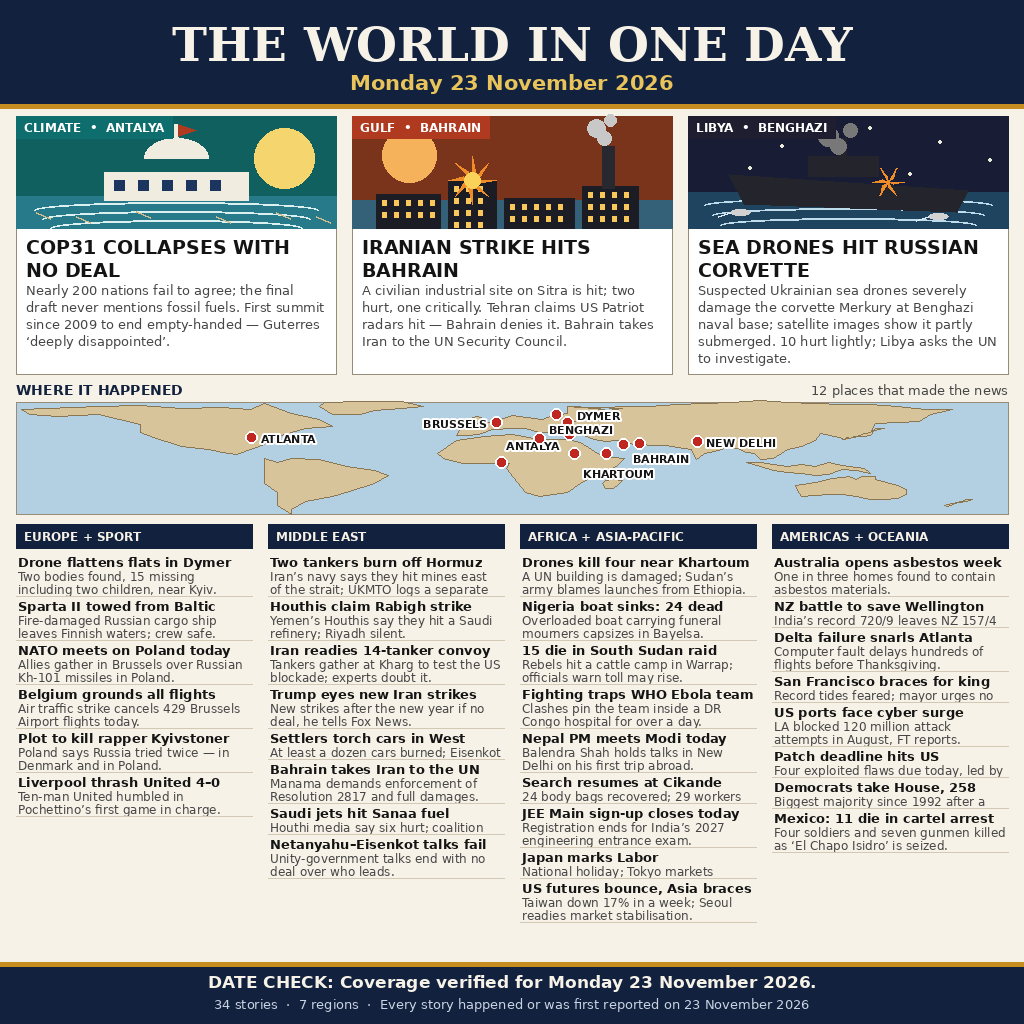
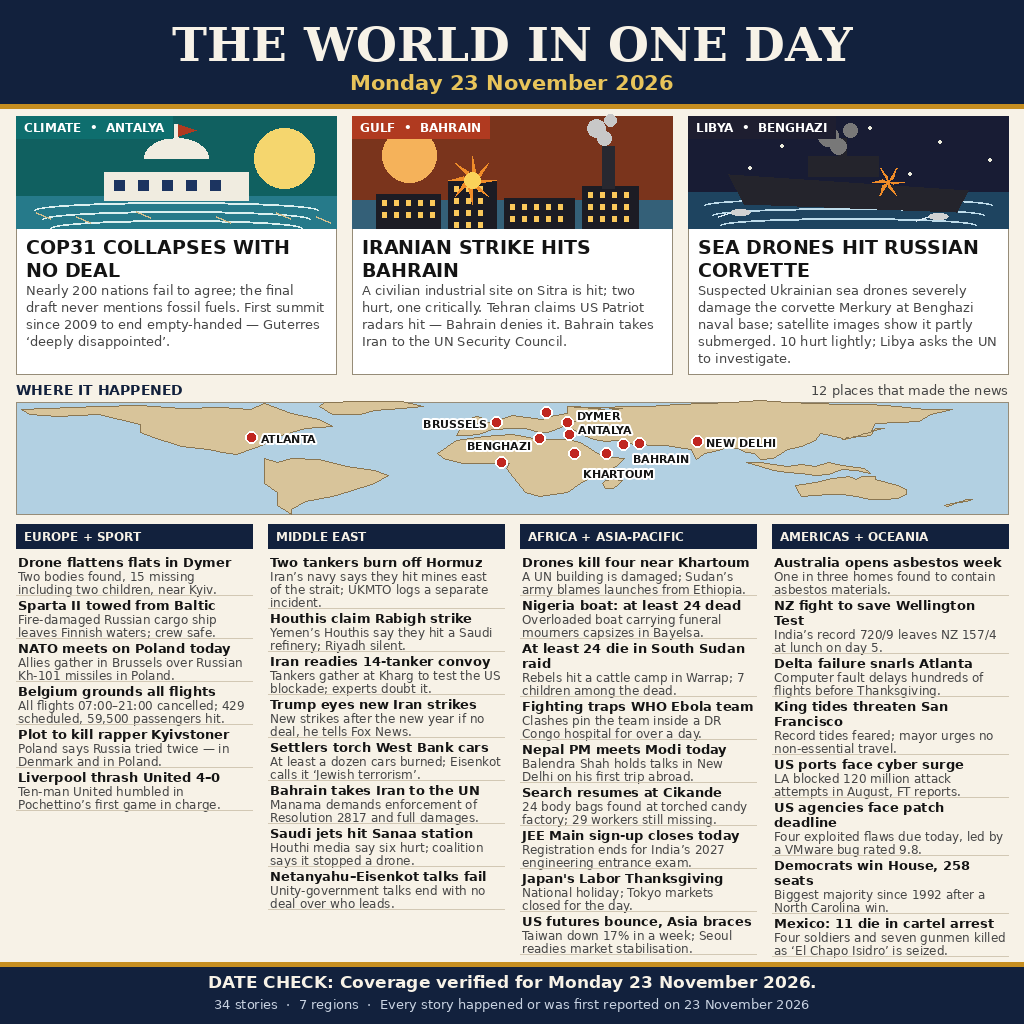
news-image-20261123: fix 9 truncated briefs, Sudan 24, map labels

Changed region(s): [[0.0, 0.5625, 1.0, 0.9375], [0.4375, 0.375, 0.625, 0.4688]]

diff --git a/render.py b/render.py
@@ -60,15 +60,21 @@ def split_lines(draw, txt, fnt, maxw):
 
 
 def fit_block(draw, head, deck, hf, df, maxw, budget):
-    """Headline (max 2 lines) plus deck trimmed to the pixel budget."""
-    hl = split_lines(draw, head, hf, maxw)[:2]
+    """Headline (max 2 lines) plus deck (max 3 lines) within the budget.
+
+    A brief that does not fit FAILS LOUDLY instead of being silently
+    cut: a clipped sentence is a visible defect, so the renderer must
+    refuse to ship it. Budget 56 = 2 headline lines (2x15) + 2 deck
+    lines (2x13), or 1 headline line + 3 deck lines.
+    """
+    hl = split_lines(draw, head, hf, maxw)
     dl = split_lines(draw, deck, df, maxw)
-    while dl and (len(hl) * 15 + len(dl) * 13) > budget:
-        dl = dl[:-1]
-    if not dl:
-        dl = split_lines(draw, deck, df, maxw)[:1]
-        if len(hl) * 15 + 13 > budget:
-            hl = hl[:1]
+    cost = len(hl) * 15 + len(dl) * 13
+    if len(hl) > 2 or len(dl) > 3 or cost > budget:
+        raise SystemExit(
+            f"fit_block overflow: headline {len(hl)} lines, deck "
+            f"{len(dl)} lines, cost {cost} > budget {budget}: "
+            f"{head!r} / {deck!r}")
     return hl, dl
 
 
@@ -276,23 +282,29 @@ for poly in parse_polys(LAND_S):
     d.polygon([xy(lo, la) for lo, la in poly], fill=SHORE, outline=COAST)
 
 # lon, lat, label, anchor, dx, dy — 8 labelled, 4 dots in the crowd.
+# Optional 7th/8th fields shift the DOT only (ox, oy): Sparta II is
+# nudged west so its dot no longer crowds the Dymer dot.
 MARKS = [
-    (30.7, 36.9, "ANTALYA", "ra", -9, 4),
+    (30.7, 36.9, "ANTALYA", "la", 9, -12),
     (30.3, 50.8, "DYMER", "la", 9, -14),
-    (26.2, 60.5, None, None, 0, 0),
+    (26.2, 60.5, None, None, 0, 0, -10, -2),
     (4.35, 50.85, "BRUSSELS", "ra", -9, -6),
     (50.6, 26.15, "BAHRAIN", "la", 9, 8),
     (56.3, 26.6, None, None, 0, 0),
     (44.2, 15.35, None, None, 0, 0),
-    (20.1, 32.1, "BENGHAZI", "la", 9, -16),
+    (20.1, 32.1, "BENGHAZI", "ra", -9, 0),
     (32.5, 15.6, "KHARTOUM", "la", 9, 14),
     (6.1, 4.9, None, None, 0, 0),
     (77.2, 28.6, "NEW DELHI", "la", 9, -6),
     (-84.43, 33.64, "ATLANTA", "la", 9, -6),
 ]
 pf = typeface(SANS_B, 11)
-for lon, lat, label, anchor, dx, dy in MARKS:
+for mark in MARKS:
+    lon, lat, label, anchor, dx, dy = mark[:6]
+    ox, oy = mark[6:8] if len(mark) > 6 else (0, 0)
     x, y = xy(lon, lat)
+    x += ox
+    y += oy
     d.ellipse([x - 6, y - 6, x + 6, y + 6], fill=DOT,
               outline=(255, 255, 255), width=2)
     if label:
@@ -309,7 +321,8 @@ SECTIONS = [
         ("NATO meets on Poland today",
          "Allies gather in Brussels over Russian Kh-101 missiles in Poland."),
         ("Belgium grounds all flights",
-         "Air traffic strike cancels 429 Brussels Airport flights today."),
+         "All flights 07:00\u201321:00 cancelled; 429 scheduled, 59,500 "
+         "passengers hit."),
         ("Plot to kill rapper Kyivstoner",
          "Poland says Russia tried twice \u2014 in Denmark and in Poland."),
         ("Liverpool thrash United 4\u20130",
@@ -325,12 +338,12 @@ SECTIONS = [
          "Tankers gather at Kharg to test the US blockade; experts doubt it."),
         ("Trump eyes new Iran strikes",
          "New strikes after the new year if no deal, he tells Fox News."),
-        ("Settlers torch cars in West Bank",
+        ("Settlers torch West Bank cars",
          "At least a dozen cars burned; Eisenkot calls it \u2018Jewish "
          "terrorism\u2019."),
         ("Bahrain takes Iran to the UN",
          "Manama demands enforcement of Resolution 2817 and full damages."),
-        ("Saudi jets hit Sanaa fuel station",
+        ("Saudi jets hit Sanaa station",
          "Houthi media say six hurt; coalition says it stopped a drone."),
         ("Netanyahu\u2013Eisenkot talks fail",
          "Unity-government talks end with no deal over who leads."),
@@ -339,19 +352,20 @@ SECTIONS = [
         ("Drones kill four near Khartoum",
          "A UN building is damaged; Sudan\u2019s army blames launches from "
          "Ethiopia."),
-        ("Nigeria boat sinks: 24 dead",
+        ("Nigeria boat: at least 24 dead",
          "Overloaded boat carrying funeral mourners capsizes in Bayelsa."),
-        ("15 die in South Sudan raid",
-         "Rebels hit a cattle camp in Warrap; officials warn toll may rise."),
+        ("At least 24 die in South Sudan raid",
+         "Rebels hit a cattle camp in Warrap; 7 children among the dead."),
         ("Fighting traps WHO Ebola team",
          "Clashes pin the team inside a DR Congo hospital for over a day."),
         ("Nepal PM meets Modi today",
          "Balendra Shah holds talks in New Delhi on his first trip abroad."),
-        ("Search resumes at Cikande factory",
-         "24 body bags recovered; 29 workers still missing after the fire."),
+        ("Search resumes at Cikande",
+         "24 body bags found at torched candy factory; 29 workers still "
+         "missing."),
         ("JEE Main sign-up closes today",
          "Registration ends for India\u2019s 2027 engineering entrance exam."),
-        ("Japan marks Labor Thanksgiving",
+        ("Japan's Labor Thanksgiving",
          "National holiday; Tokyo markets closed for the day."),
         ("US futures bounce, Asia braces",
          "Taiwan down 17% in a week; Seoul readies market stabilisation."),
@@ -359,17 +373,17 @@ SECTIONS = [
     ("AMERICAS + OCEANIA", [
         ("Australia opens asbestos week",
          "One in three homes found to contain asbestos materials."),
-        ("NZ battle to save Wellington Test",
+        ("NZ fight to save Wellington Test",
          "India\u2019s record 720/9 leaves NZ 157/4 at lunch on day 5."),
         ("Delta failure snarls Atlanta",
          "Computer fault delays hundreds of flights before Thanksgiving."),
-        ("San Francisco braces for king tides",
+        ("King tides threaten San Francisco",
          "Record tides feared; mayor urges no non-essential travel."),
         ("US ports face cyber surge",
          "LA blocked 120 million attack attempts in August, FT reports."),
-        ("Patch deadline hits US agencies",
+        ("US agencies face patch deadline",
          "Four exploited flaws due today, led by a VMware bug rated 9.8."),
-        ("Democrats take House, 258 seats",
+        ("Democrats win House, 258 seats",
          "Biggest majority since 1992 after a North Carolina win."),
         ("Mexico: 11 die in cartel arrest",
          "Four soldiers and seven gunmen killed as \u2018El Chapo Isidro\u2019 "
@@ -388,14 +402,14 @@ def draw_column(x0, title, items):
     yy = COL_TOP + 30
     for head, deck in items:
         hl, dl = fit_block(d, head, deck, typeface(SANS_B, 13),
-                           typeface(SANS, 12), COL_W - 4, 41)
+                           typeface(SANS, 12), COL_W - 4, 56)
         for ln in hl:
             d.text((x0 + 2, yy), ln, font=typeface(SANS_B, 13), fill=FG)
             yy += 15
         for ln in dl:
             d.text((x0 + 2, yy), ln, font=typeface(SANS, 12), fill=SLATE)
             yy += 13
-        yy += 2
+        yy += 1
         d.line([x0, yy - 1, x0 + COL_W, yy - 1], fill=FAINT, width=1)
         yy += 1
 

diff --git a/README.md b/README.md
@@ -12,13 +12,13 @@ Below the three lead stories, a world map marks 12 places that made the news, an
 
 ## Facts checked, facts left out
 
-Every story in the image happened, or was first reported, on 23 November 2026. Claims are attributed where they are one-sided: the Houthi claim of a strike on the Rabigh refinery is Riyadh-unconfirmed, the Iranian tanker convoy at Kharg is described as "readies" because it had not sailed when this image was drawn, and the Saudi strike on a Sanaa fuel station is reported as Houthi media say. Numbers are kept as reported: 24 body bags were recovered at the Cikande factory fire, which is not the same as 24 dead, and 29 workers are still missing; in Dymer two bodies were recovered and 15 people are missing, including two children. The Wellington Test is shown live: New Zealand 157/4 at lunch on day 5, after India's record 720/9.
+Every story in the image happened, or was first reported, on 23 November 2026. Claims are attributed where they are one-sided: the Houthi claim of a strike on the Rabigh refinery is Riyadh-unconfirmed, the Iranian tanker convoy at Kharg is described as "readies" because it had not sailed when this image was drawn, and the Saudi strike on a Sanaa fuel station is reported as Houthi media say. Numbers are kept as reported: 24 body bags were recovered at the Cikande factory fire, which is not the same as 24 dead, and 29 workers are still missing; in Dymer two bodies were recovered and 15 people are missing, including two children; in South Sudan at least 24 civilians were killed in the Warrap cattle-camp attack, seven of them children. The Wellington Test is shown live: New Zealand 157/4 at lunch on day 5, after India's record 720/9.
 
 Stories checked and left out because they belong to earlier days: the Leandro Paredes collapse after the Copa Sudamericana final (Saturday 21 November), the ICE arrests at Seattle-Tacoma airport (Saturday 21 November), the UN agreement on autonomous weapons (Saturday 21 November), and the two South Africa mass shootings (Sunday 15 November).
 
 ## Files
 
-- entry.png: the image, 1024 by 1024, RGB PNG, 193,885 bytes. sha256 bb5f446e6922d9bcda4ac1af3ffc8e991c588d9476e61eb921e37b202976e2aa.
+- entry.png: the image, 1024 by 1024, RGB PNG, 215,310 bytes. sha256 100b94bafa5daca8efe71b65bea44aeb6da0f45712f2450068a9ce714aee483f.
 - render.py: draws entry.png with Pillow. It runs locally only; the grader never runs it.
 - main.py: the entry point. Standard library only. It validates entry.png (PNG magic, 1024x1024 IHDR, SHA-256) and copies it to MAKEFUN_OUTPUT_DIR.
 
